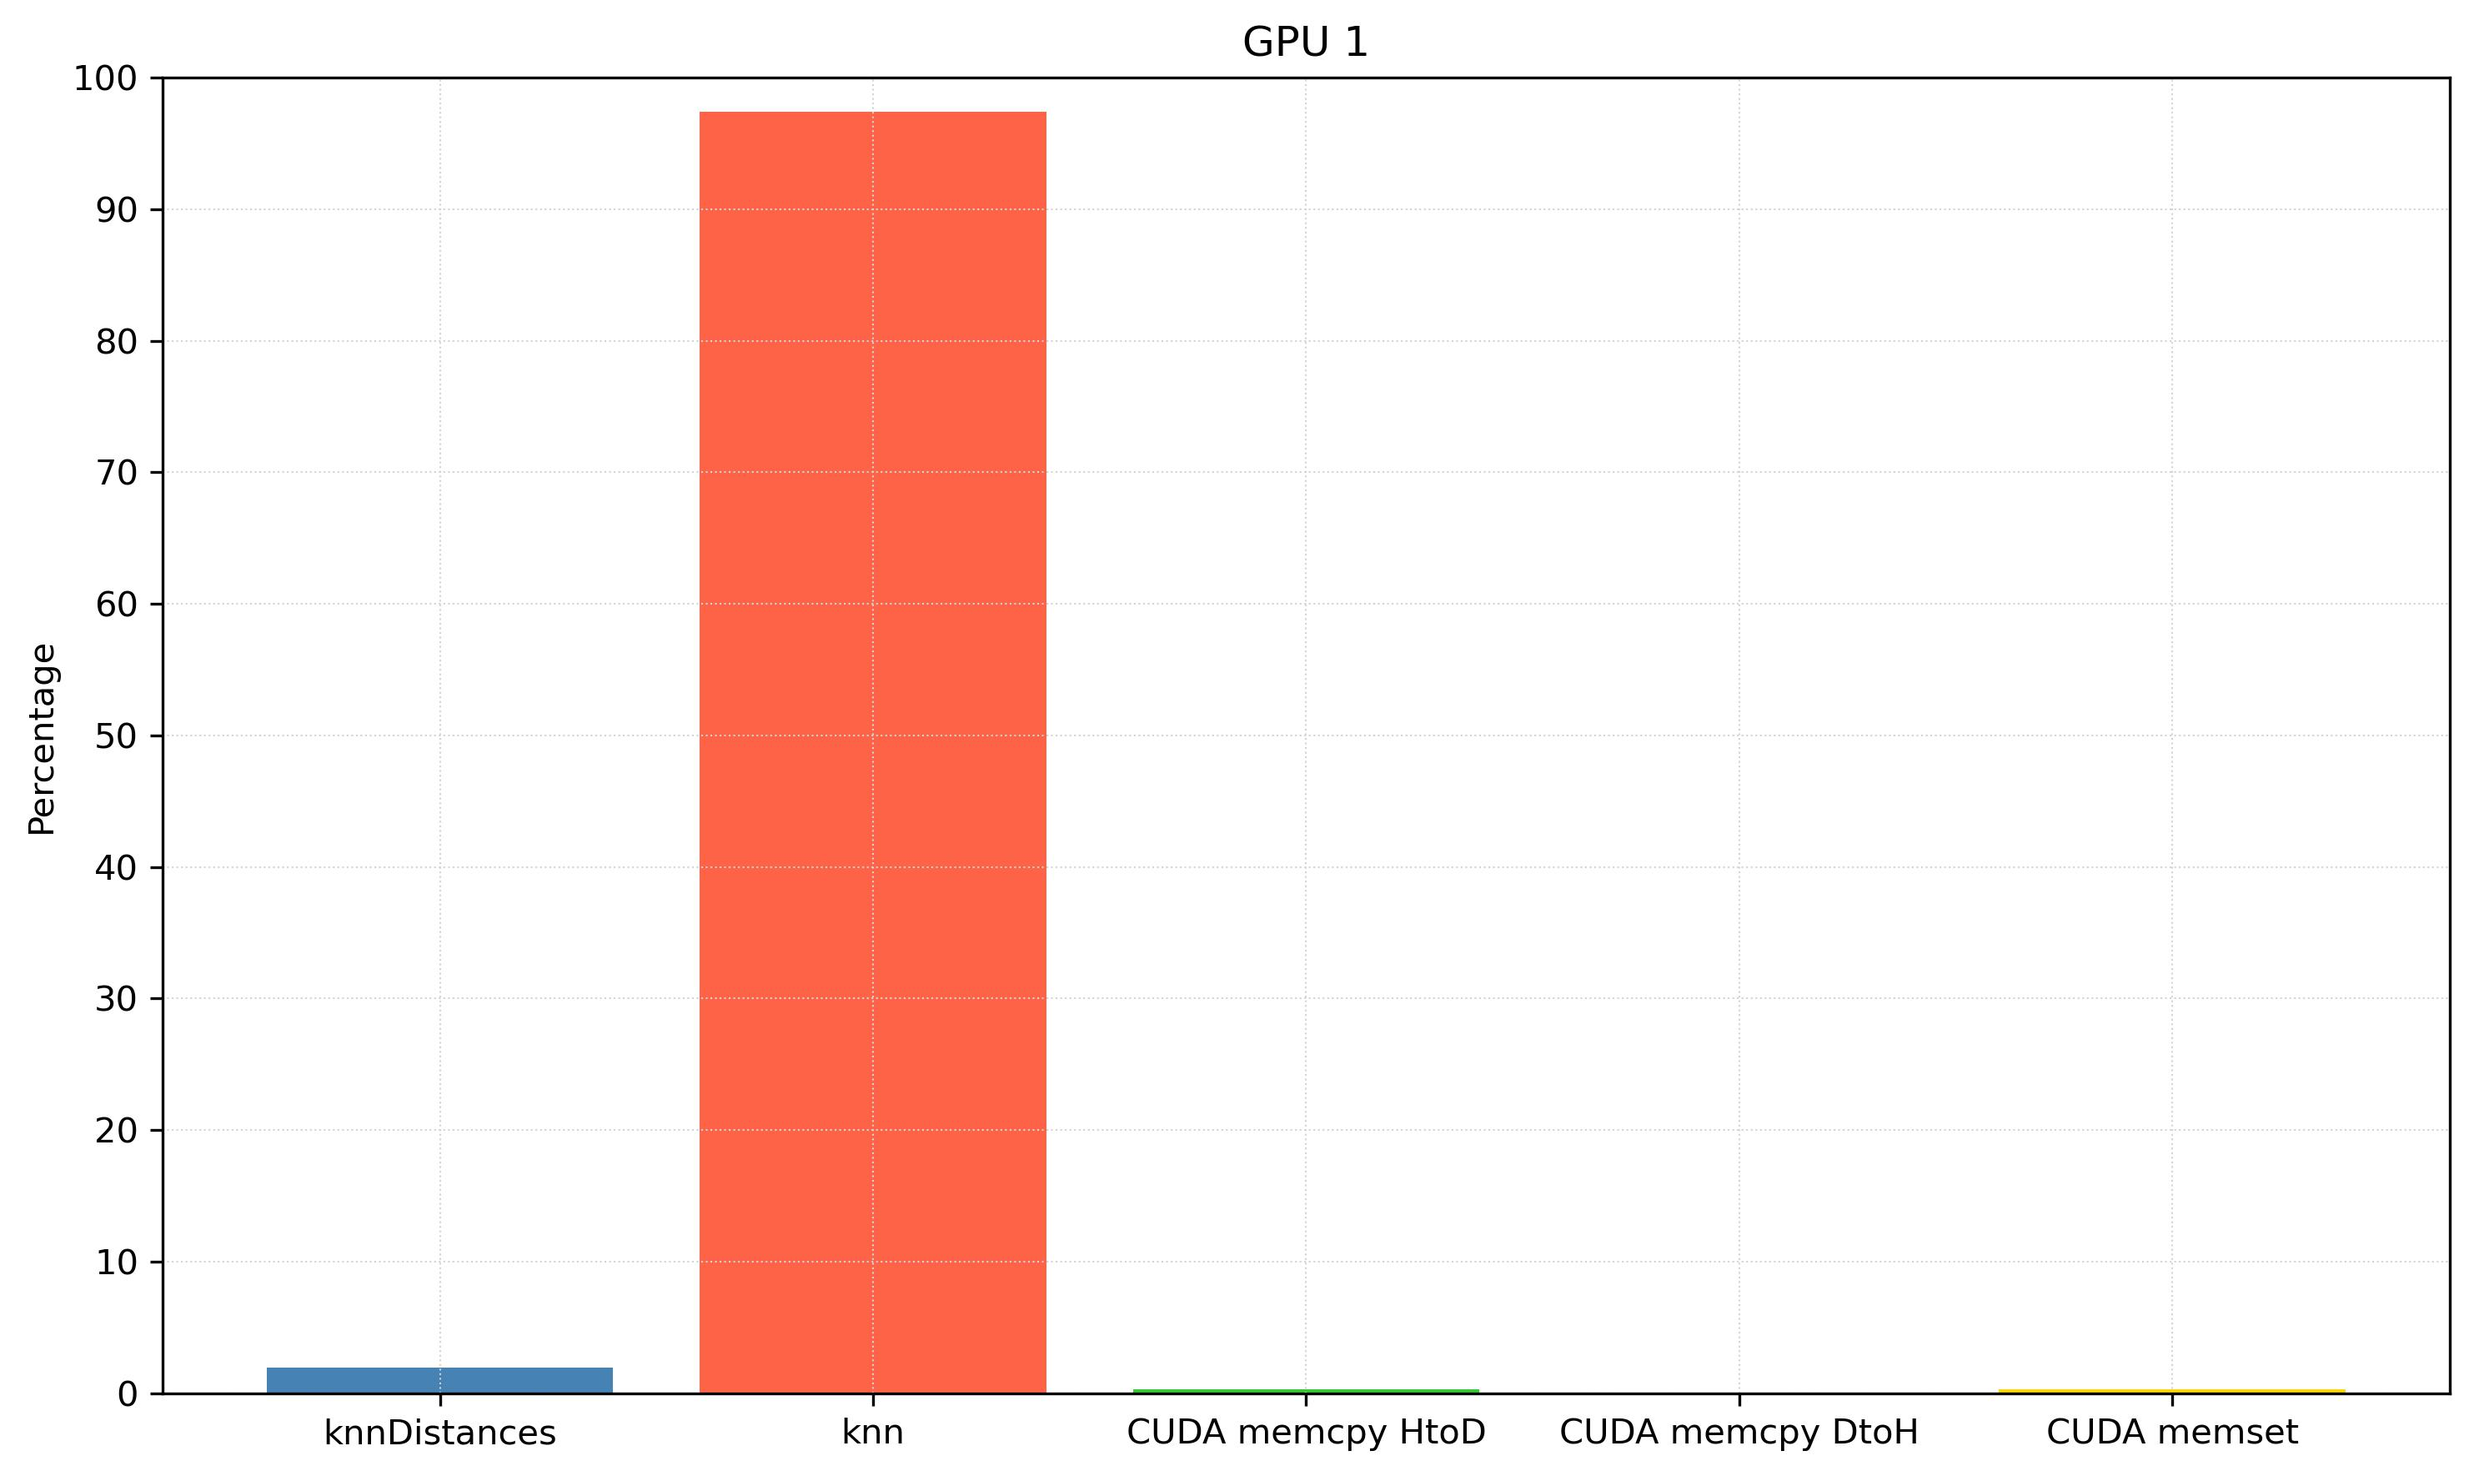
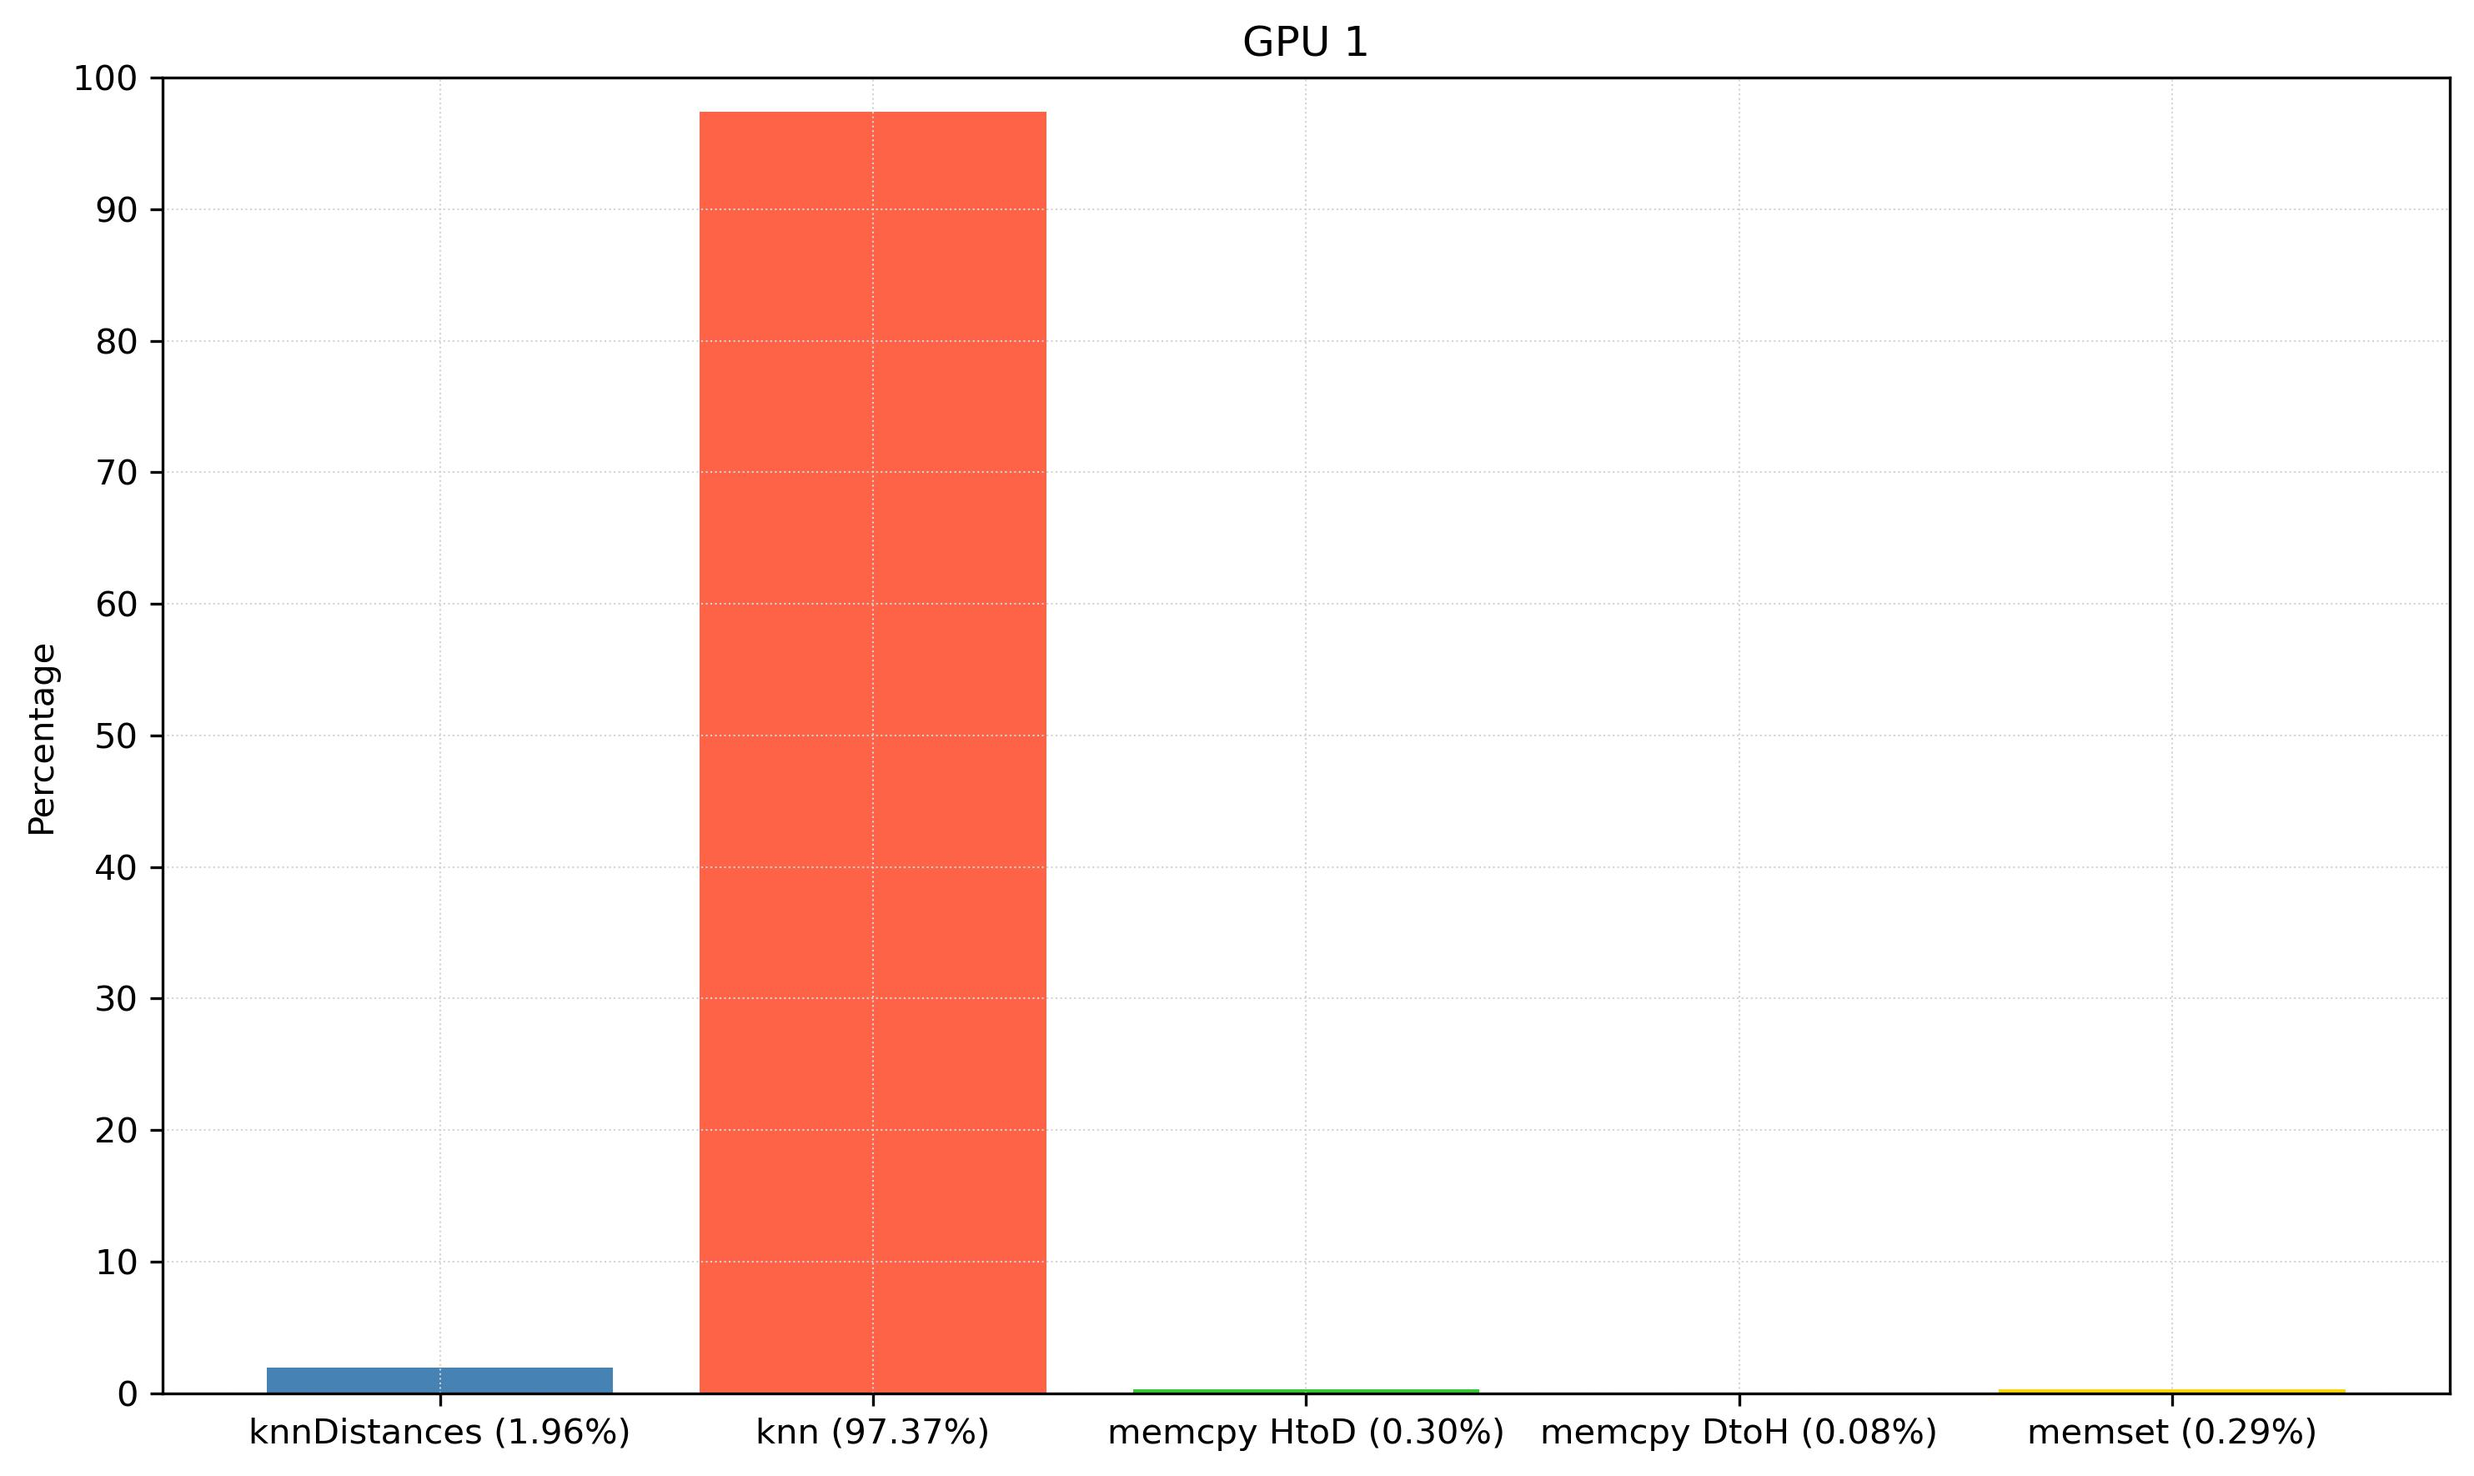
stuff

diff --git a/plot_script/histogram_diabetes.py b/plot_script/histogram_diabetes.py
@@ -4,11 +4,11 @@ import matplotlib.pyplot as plt
 # Sample data 
 # Format: (GPU, Kernel/API call, %Time)
 data = [
-    (1, 'knnDistances', 8.68),
-    (1, 'knn', 89.83),
-    (1, 'CUDA memcpy HtoD', 1.36),
-    (1, 'CUDA memcpy DtoH', 0.01),
-    (1, 'CUDA memset', 0.12),
+    (1, 'knnDistances (8.68%)', 8.68),
+    (1, 'knn (89.83%)', 89.83),
+    (1, 'memcpy HtoD (1.36%)', 1.36),
+    (1, 'memcpy DtoH (0.01%)', 0.01),
+    (1, 'memset (0.12%)', 0.12),
 ]
 
 # Convert data to a DataFrame
@@ -22,11 +22,11 @@ df['Percentage'] = df.groupby('GPU')['Time'].apply(lambda x: (x / x.sum()) * 100
 
 # Define colors for each operation
 color_map = {
-    'knnDistances': '#4682B4',  # Steel Blue
-    'knn': '#FF6347',           # Tomato
-    'CUDA memcpy HtoD': '#32CD32',  # Lime Green
-    'CUDA memcpy DtoH': '#4169E1',  # Royal Blue
-    'CUDA memset': '#FFD700',         # Gold
+    'knnDistances (8.68%)': '#4682B4',  # Steel Blue
+    'knn (89.83%)': '#FF6347',           # Tomato
+    'memcpy HtoD (1.36%)': '#32CD32',  # Lime Green
+    'memcpy DtoH (0.01%)': '#4169E1',  # Royal Blue
+    'memset (0.12%)': '#FFD700',         # Gold
 }
 
 

diff --git a/plot_script/histogram_iris.py b/plot_script/histogram_iris.py
@@ -4,11 +4,11 @@ import matplotlib.pyplot as plt
 # Sample data 
 # Format: (GPU, Kernel/API call, %Time)
 data = [
-    (1, 'knnDistances', 1.96),
-    (1, 'knn', 97.37),
-    (1, 'CUDA memcpy HtoD', 0.30),
-    (1, 'CUDA memcpy DtoH', 0.08),
-    (1, 'CUDA memset', 0.29),
+    (1, 'knnDistances (1.96%)', 1.96),
+    (1, 'knn (97.37%)', 97.37),
+    (1, 'memcpy HtoD (0.30%)', 0.30),
+    (1, 'memcpy DtoH (0.08%)', 0.08),
+    (1, 'memset (0.29%)', 0.29),
 ]
 
 # Convert data to a DataFrame
@@ -22,11 +22,11 @@ df['Percentage'] = df.groupby('GPU')['Time'].apply(lambda x: (x / x.sum()) * 100
 
 # Define colors for each operation
 color_map = {
-    'knnDistances': '#4682B4',  # Steel Blue
-    'knn': '#FF6347',           # Tomato
-    'CUDA memcpy HtoD': '#32CD32',  # Lime Green
-    'CUDA memcpy DtoH': '#4169E1',  # Royal Blue
-    'CUDA memset': '#FFD700',         # Gold
+    'knnDistances (1.96%)': '#4682B4',  # Steel Blue
+    'knn (97.37%)': '#FF6347',           # Tomato
+    'memcpy HtoD (0.30%)': '#32CD32',  # Lime Green
+    'memcpy DtoH (0.08%)': '#4169E1',  # Royal Blue
+    'memset (0.29%)': '#FFD700',         # Gold
 }
 
 
